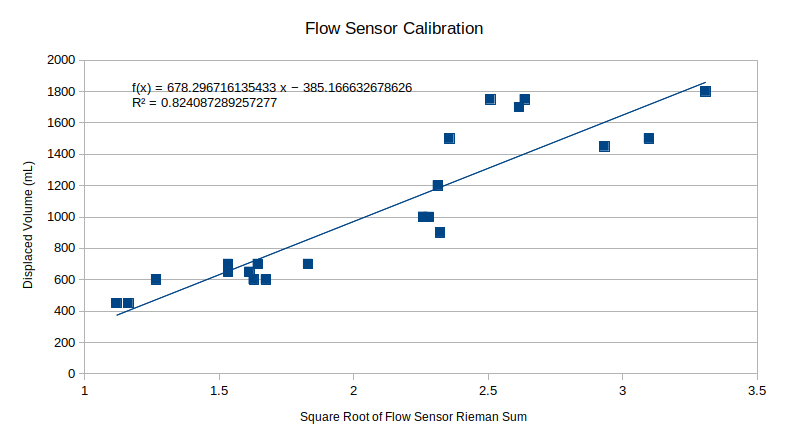
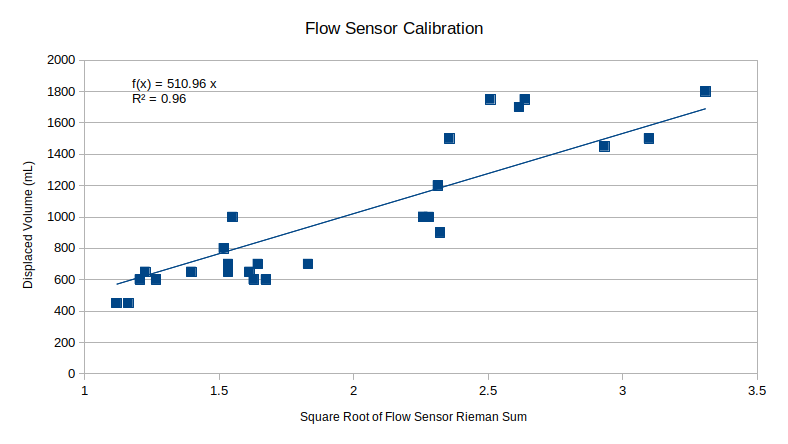
images of calib

diff --git a/README.md b/README.md
@@ -51,23 +51,46 @@ Sampling frequency for all sensors should be >100ms to prevent performance drops
 We connected the water column and the sensor in parallel and we applied a constant pressure. 
 
 
-![Screenshot](imgs/pressure_calib_img.png)
+![Screenshot](imgs/pressure_sensor_img.png)
 
 
 We read the values coming from the sensor using the test_sensor.py script. Here are our results,
 
-		Water Column (cmH2O)  |  Sensor Reading
-		----------------------------------------
-						10    |    8
-						20    |    18
-						30    |    25
-						40    |    30
+		Measure Pressure   |   Actual Pressure (cmH2O)
+					-4.74   |   0
+					15.21   |   20
+					17.11   |   22
+					18.94   |   24
+					20.8   |   26
+					22.88   |   28
+					24.57   |   30
+					26.11   |   32
+					27.15   |   34
+					26.47   |   36
+					27.45   |   38
+					7.39   |   11
+					6.25   |   10
+					5.12   |   9
+					4.3   |   8
+					0.88   |   4
+					2.88   |   6
+					-1.22   |   2
+					-0.14   |   3
+					1.84   |   5
+					8.81   |   12
+					13.65   |   17
+					12.83   |   16
+					12.12   |   15
+					16.77   |   19
 
 
 We find the linear regression to find the calibration coffeciants (true_val = c1*sensor_val + static diff between sensors), 
 
-		c1 = 1.34
-		c2 = measured when the machine boots up
+		c1 = 1.14
+		c2 = Measured when the machine boots up
+
+
+![Screenshot](imgs/pressure_sensor_graph.png)
 
 
 
@@ -111,6 +134,8 @@ Here are our results,
 						1000   |   1.55
 						800   |   1.52
 
+
+We force the y intercept to be at 0,
 
 ![Screenshot](imgs/flow_sensor_graph.png)
 
